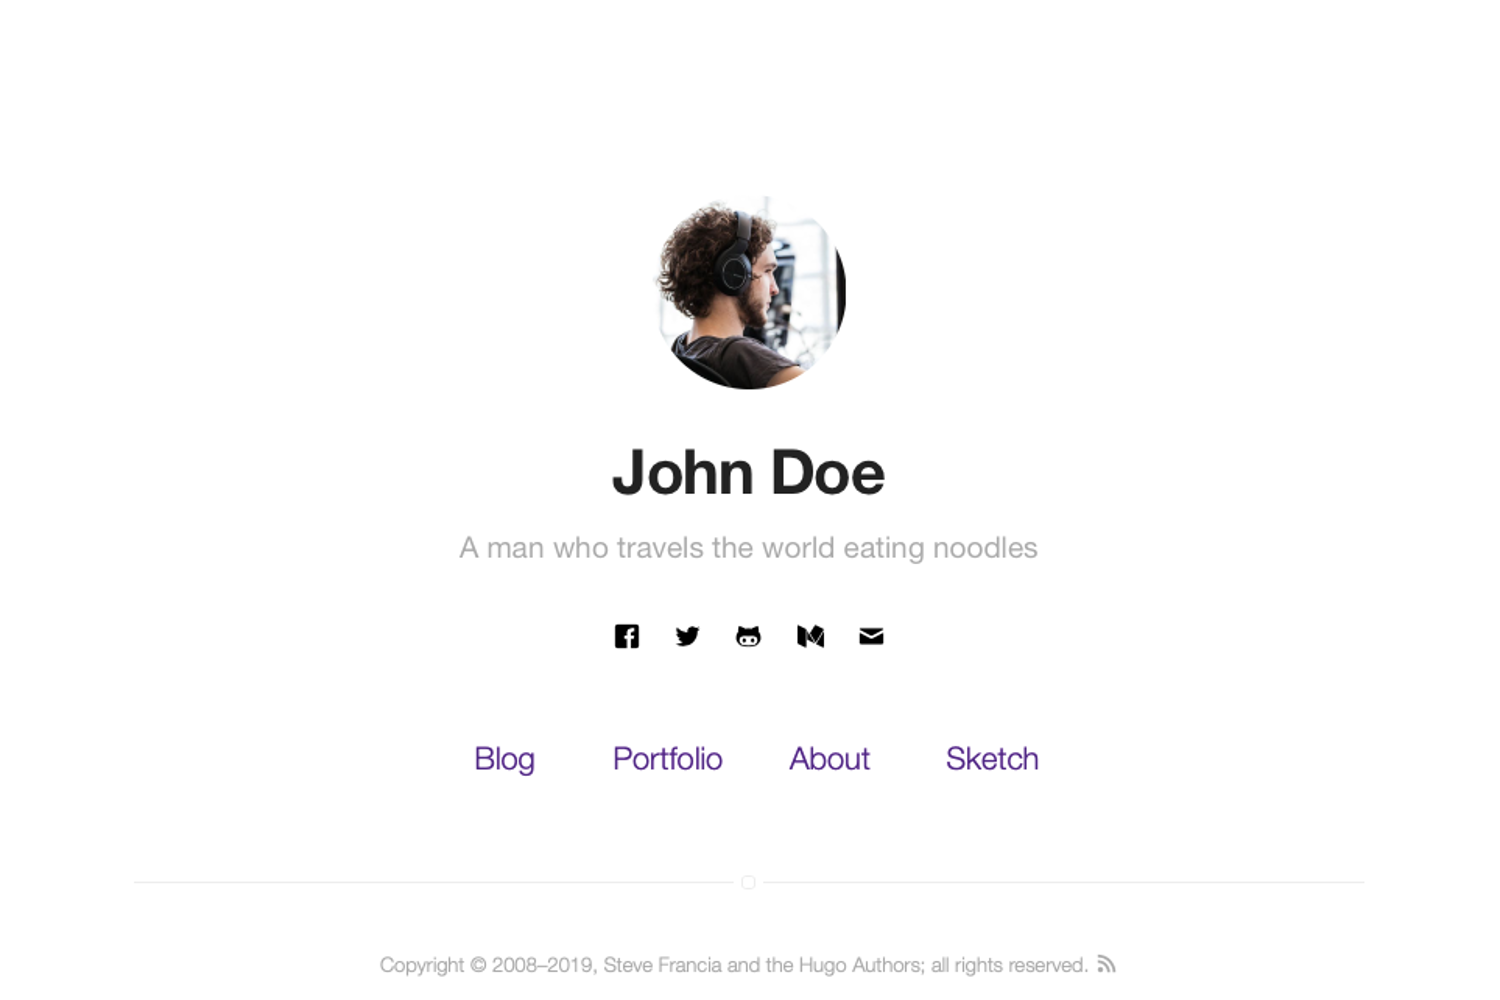
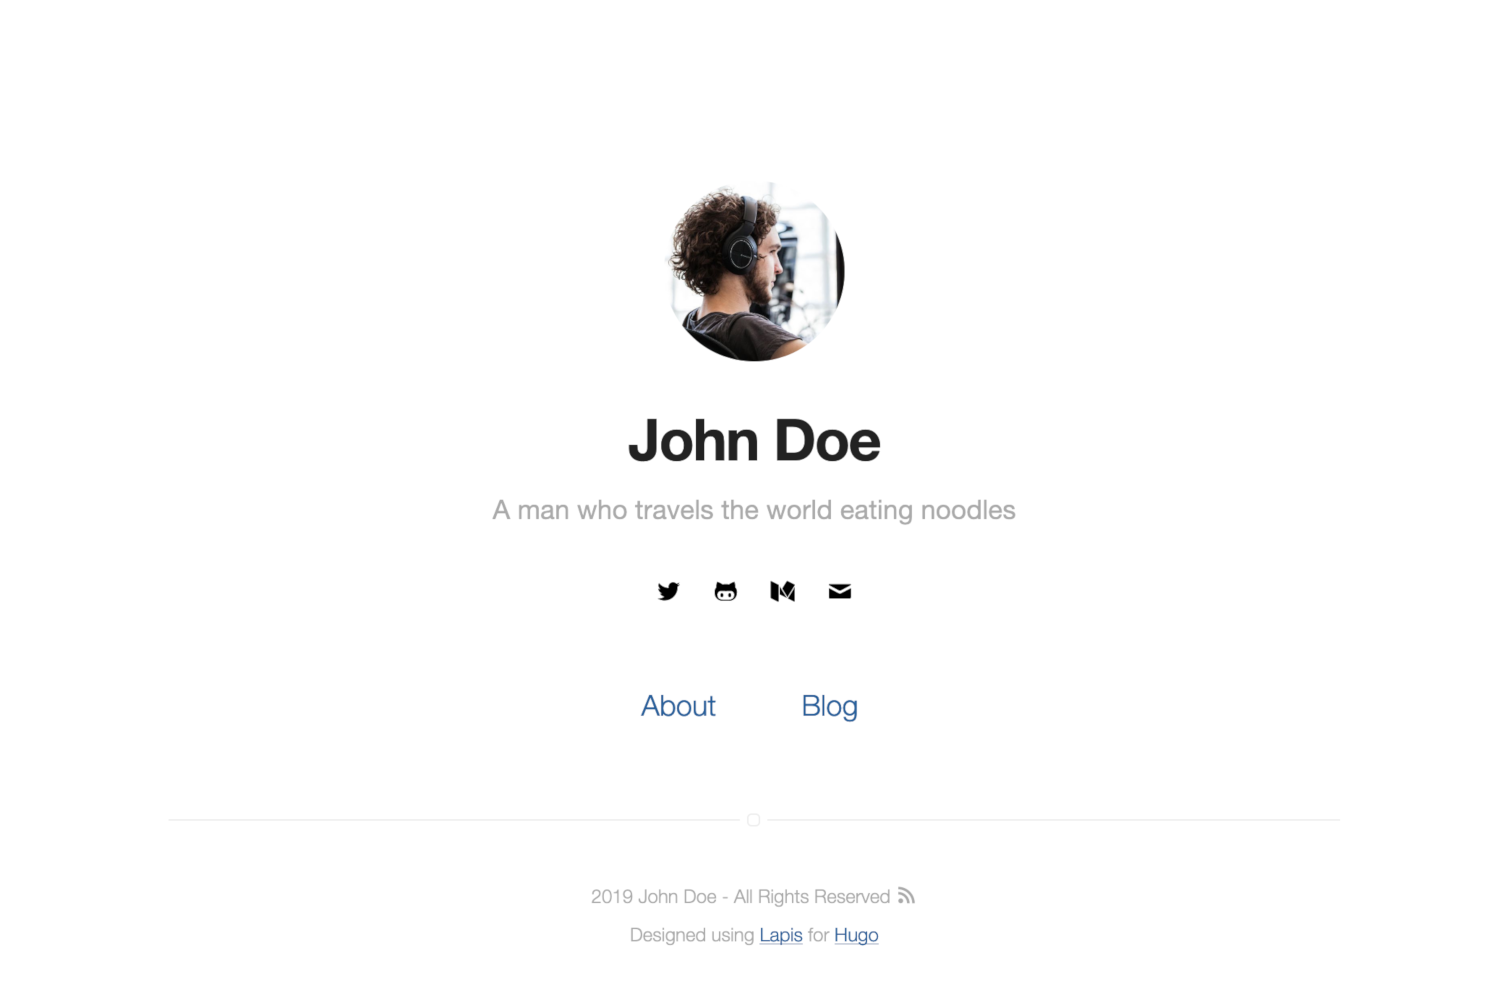
Change link color to Lapis and update images

diff --git a/layouts/partials/footer.html b/layouts/partials/footer.html
@@ -2,5 +2,6 @@
     {{ .Site.Copyright }}
     <a class="link" href="{{ .Site.BaseURL }}/index.xml" type="application/rss+xml" target="_blank">
         <svg class="icon icon-rss"><use xlink:href="#icon-rss"></use></svg>
-    </a>
+    </a><br/>
+    <div class="extra">Designed using <a href="https://github.com/jdahm/lapis">Lapis</a> for <a href="https://gohugo.io/">Hugo</a></div>
 </footer>

diff --git a/layouts/_default/single.html b/layouts/_default/single.html
@@ -1,6 +1,8 @@
 {{ define "content" }}
 <div class="post">
+    {{ if not .Site.Params.skip_nav }}
     {{ partial "nav.html" . }}
+    {{ end }}
 
     {{ if eq .Section "blog" }}
     {{ partial "post-header.html" . }}

diff --git a/assets/base/variables.sass b/assets/base/variables.sass
@@ -6,6 +6,7 @@ $beta: #222
 $gama: #aaa
 $delta: #4b0082
 $epsilon: #ededed
+$lapis: #26619c
 
 $mobile: "only screen and (max-width: 400px)"
 $tablet: "only screen and (min-width: 400px) and (max-width: 1050px)"

diff --git a/layouts/index.html b/layouts/index.html
@@ -2,9 +2,7 @@
 <div class="page {{ lower .Title }}">
     {{ partial "header.html" . }}
 
-    {{ if not .Site.Params.skip_nav }}
     {{ partial "nav.html" . }}
-    {{ end }}
 
     {{ .Content }}
 

diff --git a/assets/components/footer.sass b/assets/components/footer.sass
@@ -39,7 +39,7 @@
 
     > .extra
         color: $gama
-        margin-top: 0
+        margin-top: 10px
 
         > .link
             color: $beta

diff --git a/assets/base/general.sass b/assets/base/general.sass
@@ -28,7 +28,7 @@ h4
 	font-size: 1.6rem
 
 a
-	color: $delta
+	color: $lapis
 	text-decoration: underline
 
 p

diff --git a/exampleSite/content/about.md b/exampleSite/content/about.md
@@ -6,6 +6,10 @@ aliases = ["about-us","about-hugo","contact"]
 author = "Hugo Authors"
 +++
 
+<div style="text-align:center">
+    <img src="/profile.jpg"/>
+</div>
+
 Written in Go, Hugo is an open source static site generator available under the [Apache Licence 2.0.](https://github.com/gohugoio/hugo/blob/master/LICENSE) Hugo supports TOML, YAML and JSON data file types, Markdown and HTML content files and uses shortcodes to add rich content. Other notable features are taxonomies, multilingual mode, image processing, custom output formats, HTML/CSS/JS minification and support for Sass SCSS workflows.
 
 Hugo makes use of a variety of open source projects including:
@@ -23,6 +27,3 @@ Hugo is for people who want to hand code their own website without worrying abou
 Websites built with Hugo are extremelly fast, secure and can be deployed anywhere including, AWS, GitHub Pages, Heroku, Netlify and any other hosting provider.
 
 Learn more and contribute on [GitHub](https://github.com/gohugoio).
-
-
-
